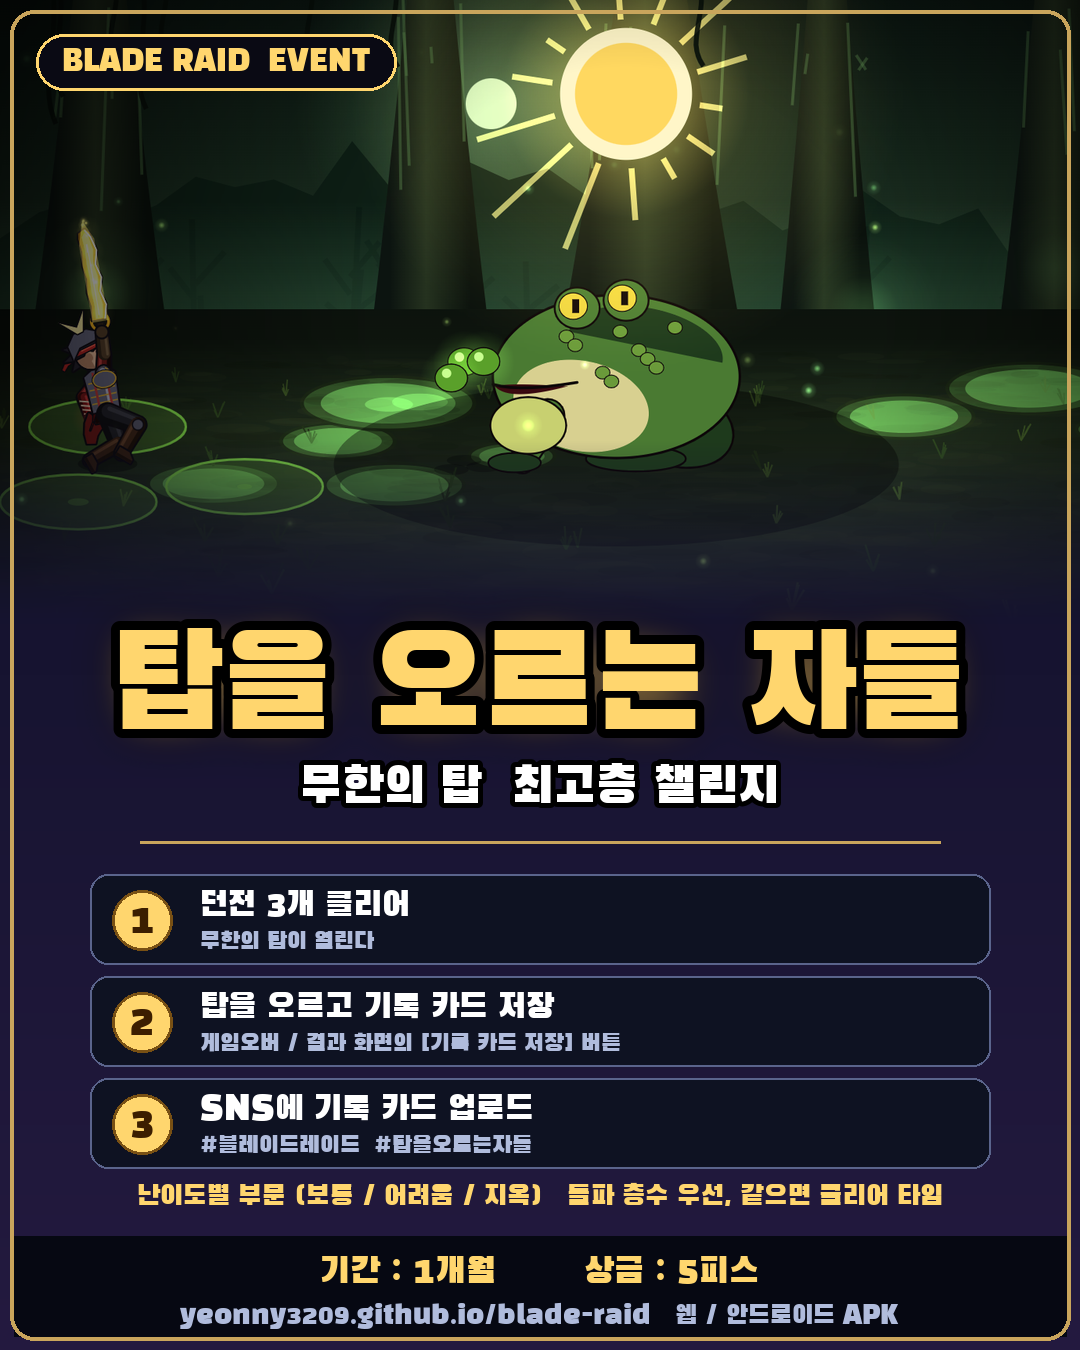
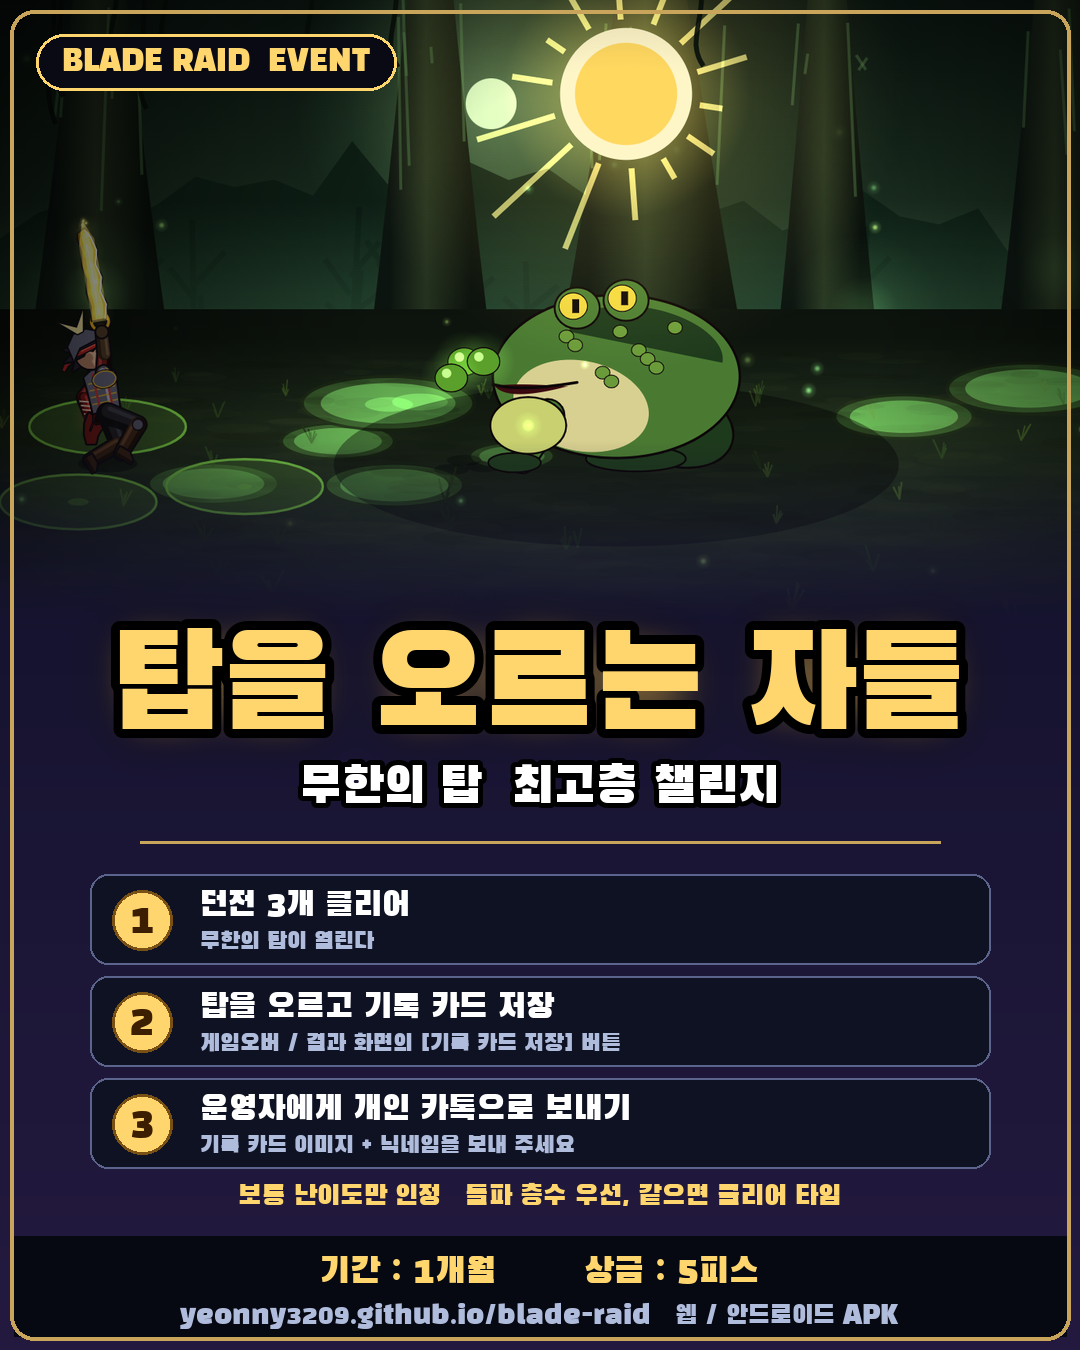
Event: normal difficulty only, submit record card by personal KakaoTalk

Changed region(s): [[0.1222, 0.8089, 0.8861, 0.9022]]

diff --git a/EVENT.md b/EVENT.md
@@ -3,20 +3,20 @@
 > 상금 : 5피스 / 기간 : 1개월 (시작일은 공개 시점에 확정)
 
 ## 한 줄 소개
-무한의 탑을 가장 높이 오른 사람을 가리는 기록 챌린지. 게임 안의 **기록 카드**를 SNS에 올리면 참가 완료.
+무한의 탑을 가장 높이 오른 사람을 가리는 기록 챌린지. 게임 안의 **기록 카드**를 운영자에게 개인 카톡으로 보내면 참가 완료.
 
 ## 참가 방법
 1. 게임(웹 https://yeonny3209.github.io/blade-raid/ 또는 안드로이드 앱)을 켠다.
 2. 던전을 3개 클리어해 **무한의 탑**을 연다.
 3. 탑에 도전한다. 쓰러지면 게임오버 화면에 **돌파 층수**와 **[기록 카드 저장 · 공유]** 버튼이 나온다.
-4. 기록 카드를 저장해 SNS에 올린다. 해시태그는 `#블레이드레이드` `#탑을오르는자들`.
+4. 기록 카드를 저장해 운영자에게 **개인 카톡**으로 보낸다. 닉네임을 같이 적는다.
 
 기록 카드에는 돌파 층수, 클리어 타임, 최대 콤보, 장비, 난이도, 날짜, 인증 코드가 들어 있다.
 
 ## 순위 기준
-- 부문은 난이도별로 나눈다 (보통 / 어려움 / 지옥). 쉬움은 순위에서 제외한다.
+- **보통 난이도 기록만 인정한다.** 쉬움 · 어려움 · 지옥 기록은 순위에서 제외한다. (기록 카드에 난이도가 적혀 있다.)
 - 1순위는 **돌파 층수**, 같으면 **클리어 타임**이 짧은 쪽, 그래도 같으면 먼저 올린 사람.
-- 한 사람이 여러 번 올릴 수 있고, 가장 높은 기록 하나만 인정한다.
+- 한 사람이 여러 번 보낼 수 있고, 가장 높은 기록 하나만 인정한다.
 
 ## 일정 (안)
 - 기간: 1개월 (시작일은 공개 시점에 확정)
@@ -25,12 +25,12 @@
 
 ## 인증 방식과 한계
 - 카드의 인증 코드는 카드에 적힌 값으로 만든 것이라, **서버가 없는 지금은 위조를 완전히 막지 못한다.**
-- 그래서 각 부문 **상위 기록은 플레이 영상(또는 층 진행 화면 녹화)을 추가로 요청**해 확인한다.
+- 그래서 각 부문 **상위 기록은 플레이 영상(또는 층 진행 화면 녹화)을 추가로 카톡으로 요청**해 확인한다.
 - 영상은 무한의 탑 층 표시와 게임오버 화면이 이어져 보여야 한다.
 - 확인에 응하지 않거나 영상과 카드가 다르면 순위에서 제외한다.
 
 ## 운영 시 정해야 할 것
 - 상금: 5피스 (지급 방식 · 수상 인원은 공개 시점에 안내)
 - 시작일과 발표 채널
-- 상위 기록 영상 제출 방법 (DM, 폼 등)
+- 카톡 접수 방법 (카톡 아이디 · 오픈채팅 등) 공지
 - 장기적으로 순위를 믿을 수 있게 하려면 서버 쪽 기록 검증이 필요하다. 그 전까지는 위 영상 확인으로 대신한다.
